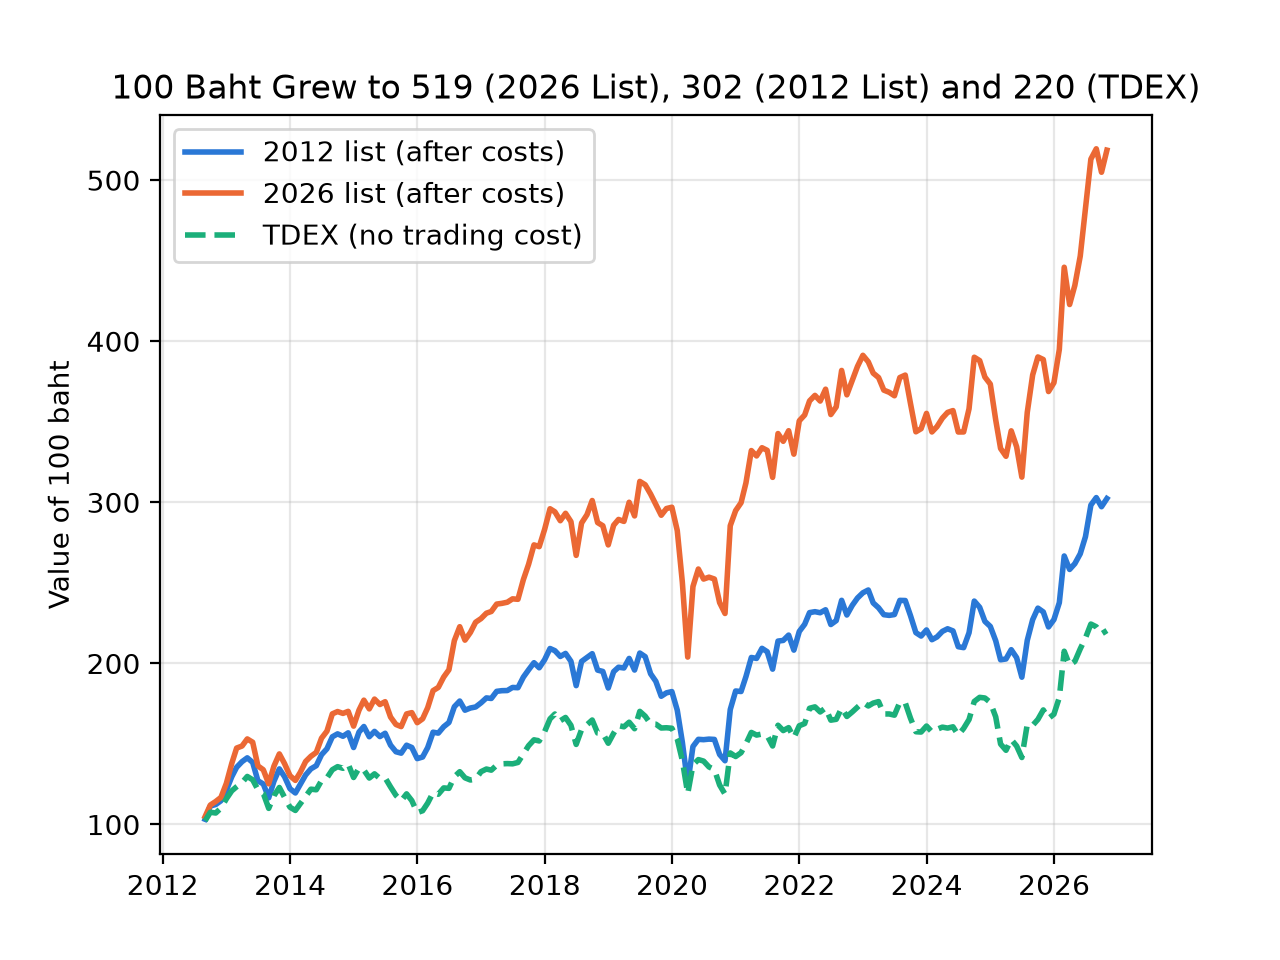
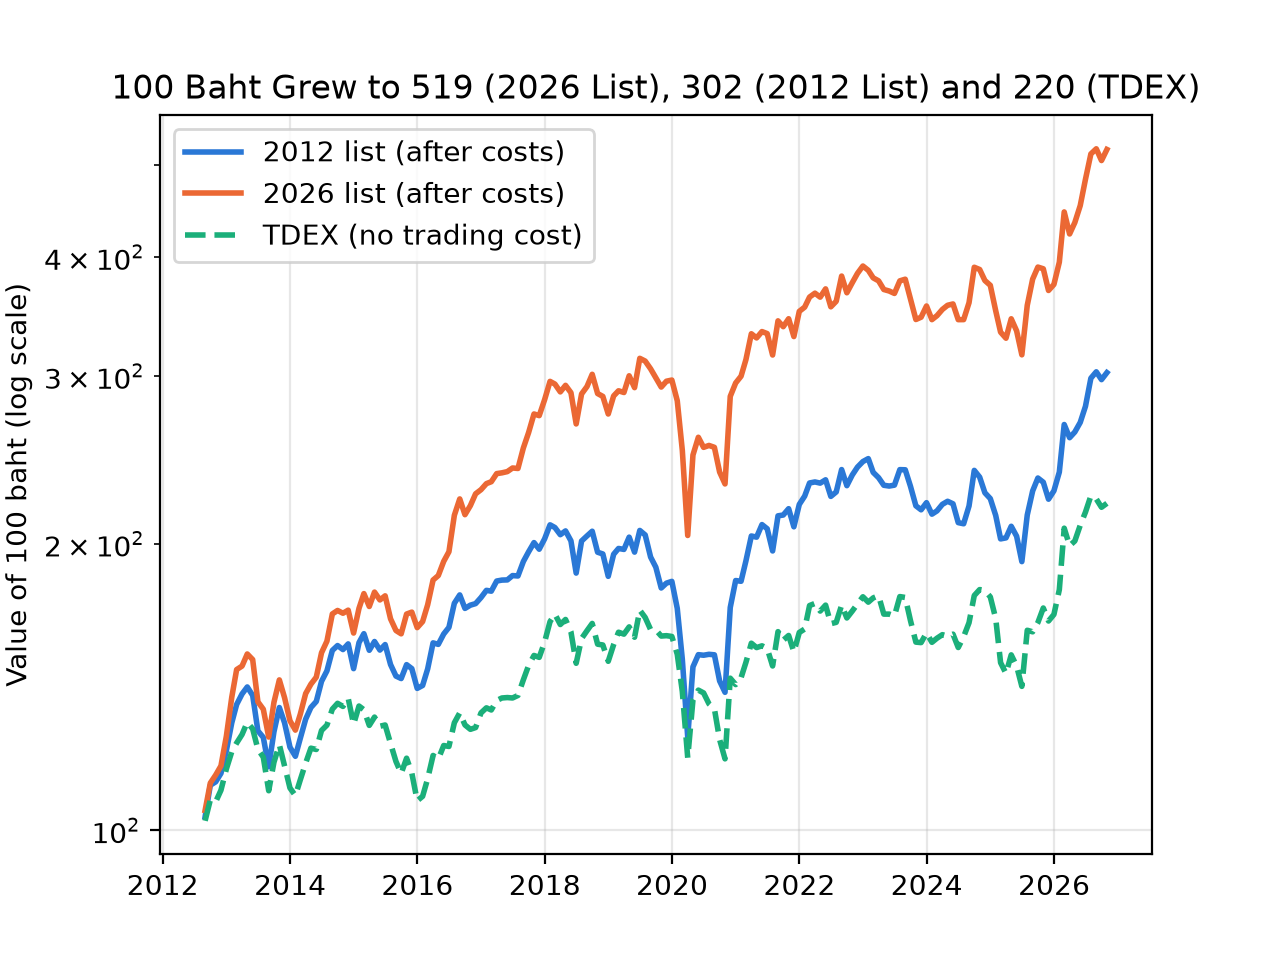
RESULTS: opening, Sensitivity 1 meaning, t-test limitation; regenerate Chart 1

diff --git a/charts.py b/charts.py
@@ -29,6 +29,8 @@ plt.title("100 Baht Grew to 519 (2026 List), "
     "302 (2012 List) and 220 (TDEX)")
 plt.ylabel("Value of 100 baht (log scale)")
 plt.legend()
+plt.yticks([100, 200, 300, 400, 500], ["100", "200", "300", "400", "500"])
+plt.minorticks_off()
 plt.grid(alpha=0.3)
 plt.yscale("log")
 plt.savefig("charts/chart1.png", dpi=200)

diff --git a/notes/RESEARCH_LOG.md b/notes/RESEARCH_LOG.md
@@ -264,7 +264,7 @@ Yahoo's `Dividends` column vs SET announcements. All three match on amount and X
 - The gap calculation is now a function, `print_gap`, tested by reproducing the headline exactly.
 
 ### Step 25: Sensitivity 2, quarterly rebalancing (Ikkyu's code, 31 Oct)
-- Quarters end Jan, Apr, Jul, Oct (D-15). 57 quarterly returns from 2012-07-31 to 2026-10-31, using both full lists.
+- Quarters end Jan, Apr, Jul, Oct (D-15). 57 quarterly returns, first at 2012-10-31 and last at 2026-10-31 (starting price 2012-07-31), using both full lists.
 - **Result:** gap 3.75%/yr, t = 3.81, 95% CI [1.82%, 5.68%]. Headline stays 3.97%, t = 3.98.
 - Rebalancing frequency barely changes the gap. Noise in the yearly difference stays about the same (about 3.7%/yr vs 3.77%/yr).
 - `print_gap` now takes periods per year. `cagr` and `sharpe` still assume 12, so they aren't used on the quarterly series.
@@ -290,3 +290,8 @@ Yahoo's `Dividends` column vs SET announcements. All three match on amount and X
 - **Passed:** a separate rebuild outside the project's code matched every headline, sensitivity and scorecard number. `PLAN.md`'s only change since the freeze is adding the swap ratios.
 - **Open:** RESULTS.md has no section naming deviations from the plan (BANPU source, TRUE fix after the first run); Chart 1's log line runs after `savefig`; `sources/SOURCES.md` lacks the later sources; no Git remote.
 - **Not covered:** a fresh package install, a fresh Yahoo download (see Step 19), rerunning `checks.py`, and reopening outside links. The rebuild uses the same data and my reading of the same rules, so it can't catch shared data errors.
+
+### Step 30: Second outside review (Ikkyu shared it, 1 Nov; points checked by Claude)
+- **Confirmed:** Chart 1's saved PNG was stale and linear; RESULTS.md had no opening; Sensitivity 1's meaning wasn't spelled out; the t-test's independence assumption wasn't stated; D-15's date wording was wrong (fixed here and in Step 25).
+- **Not confirmed:** the review says the plan promised the independence limitation. It isn't in `PLAN.md`, `Raw_PLAN.md` or the Revised Plan doc. The Flaw Audit doc wasn't searched. It's a valid limitation either way.
+- **Side check (post hoc, Claude's scratch code, not project code):** the monthly gap's lag-1 autocorrelation is −0.01. A Newey-West t with 6 lags is 3.59, against the plain 3.98.

diff --git a/notes/RESULTS.md b/notes/RESULTS.md
@@ -1,3 +1,8 @@
+## SET50 hindsight gap: results
+
+How much does testing today’s SET50 on the past flatter a backtest, compared with the list an investor could actually have picked in 2012? This compares the July 2012 list with the July 2026 list, from July 2012 to October 2026, equal weight and rebalanced monthly, with 0.15% trading costs. Prices are from Yahoo, plus a Mendeley dataset for INTUCH, old GULF and BANPU.
+
+
 ## Headline 
 - The 2026 SET50 hindsight list outperformed the July 2012 SET50 list by 3.97 percentage points per year in annualized arithmetic returns (t = 3.98, 95% CI [2.01%, 5.92%]), under the pre-committed dropped-stock rule.
 - In a backtest, the 2026 list returned about 4 percentage points more per year than the 2012 list, but an investor in 2012 could not have known the 2026 list.
@@ -27,6 +32,7 @@
 - Quarterly rebalancing: The gap is 3.75% per year (t = 3.81, 95% CI [1.82%, 5.68%]). Quarters end in January, April, July and October (D-15).
 
 - How to read these results:
+    - Removing the 14 stocks without July 2012 prices cuts the gap from 3.97% to 3.00%. So roughly 1 point a year comes from later listings, and roughly 3 points from which companies already trading in 2012 ended up on today’s list. This isn’t an exact breakdown, because the lists hold different numbers of stocks and removing stocks changes every other weight.
     - Both tests still show a positive return gap.
     - They support the headline result but do not replace it.
     - Both use the same underlying data, so they are not independent proofs.
@@ -50,8 +56,8 @@
 - Comparisons: Thai market results and US Quantz Dow results are not directly comparable.
 - Full details: All data checks and their limitations are documented in DATA_CHECKS.md.
 - TDEX: Didn’t check whether Yahoo’s adjusted prices include every fund distribution. If some are missing, TDEX’s 5.70% is too low.
-
-## Deviations 
+- T-test: the plain t-test assumes the monthly gaps are independent of each other. If they aren’t, the t-stat and CI could be off.
+## Deviations from the frozen plan
 - BANPU: switched to Mendeley (D-11).
 - TRUE: removed the fake jump (D-12). The ratio was in the plan, but the fix came after the first run.
 - Effect: together, 4.00% to 3.97%.

diff --git a/notes/DECISIONS.md b/notes/DECISIONS.md
@@ -102,6 +102,6 @@ AWC, COM7, CRC, GPSC, GULF, MRDIYT, MTC, OR, OSP, SCGP, TFG, TIDLOR, TLI, WHA.
 predecessor's history. It stays in, and it's in the 2026 list for the headline too.
 
 ## D-15: Sensitivity 2 uses quarters ending Jan, Apr, Jul, Oct (2026-10-31)
-Ikkyu chose this before any quarterly returns were run. `resample("QE-OCT")` gives 57 quarterly returns from
-2012-07-31 to 2026-10-31, the same start and end as the monthly test, and keeps BANPU's last price.
+Ikkyu chose this before any quarterly returns were run. `resample("QE-OCT")` gives 57 quarterly returns, the first at
+2012-10-31 and the last at 2026-10-31. The starting price is 2012-07-31, the same start and end as the monthly test, and keeps BANPU's last price.
 Calendar quarters would start returns in Oct 2012 and cut the last quarter short.
